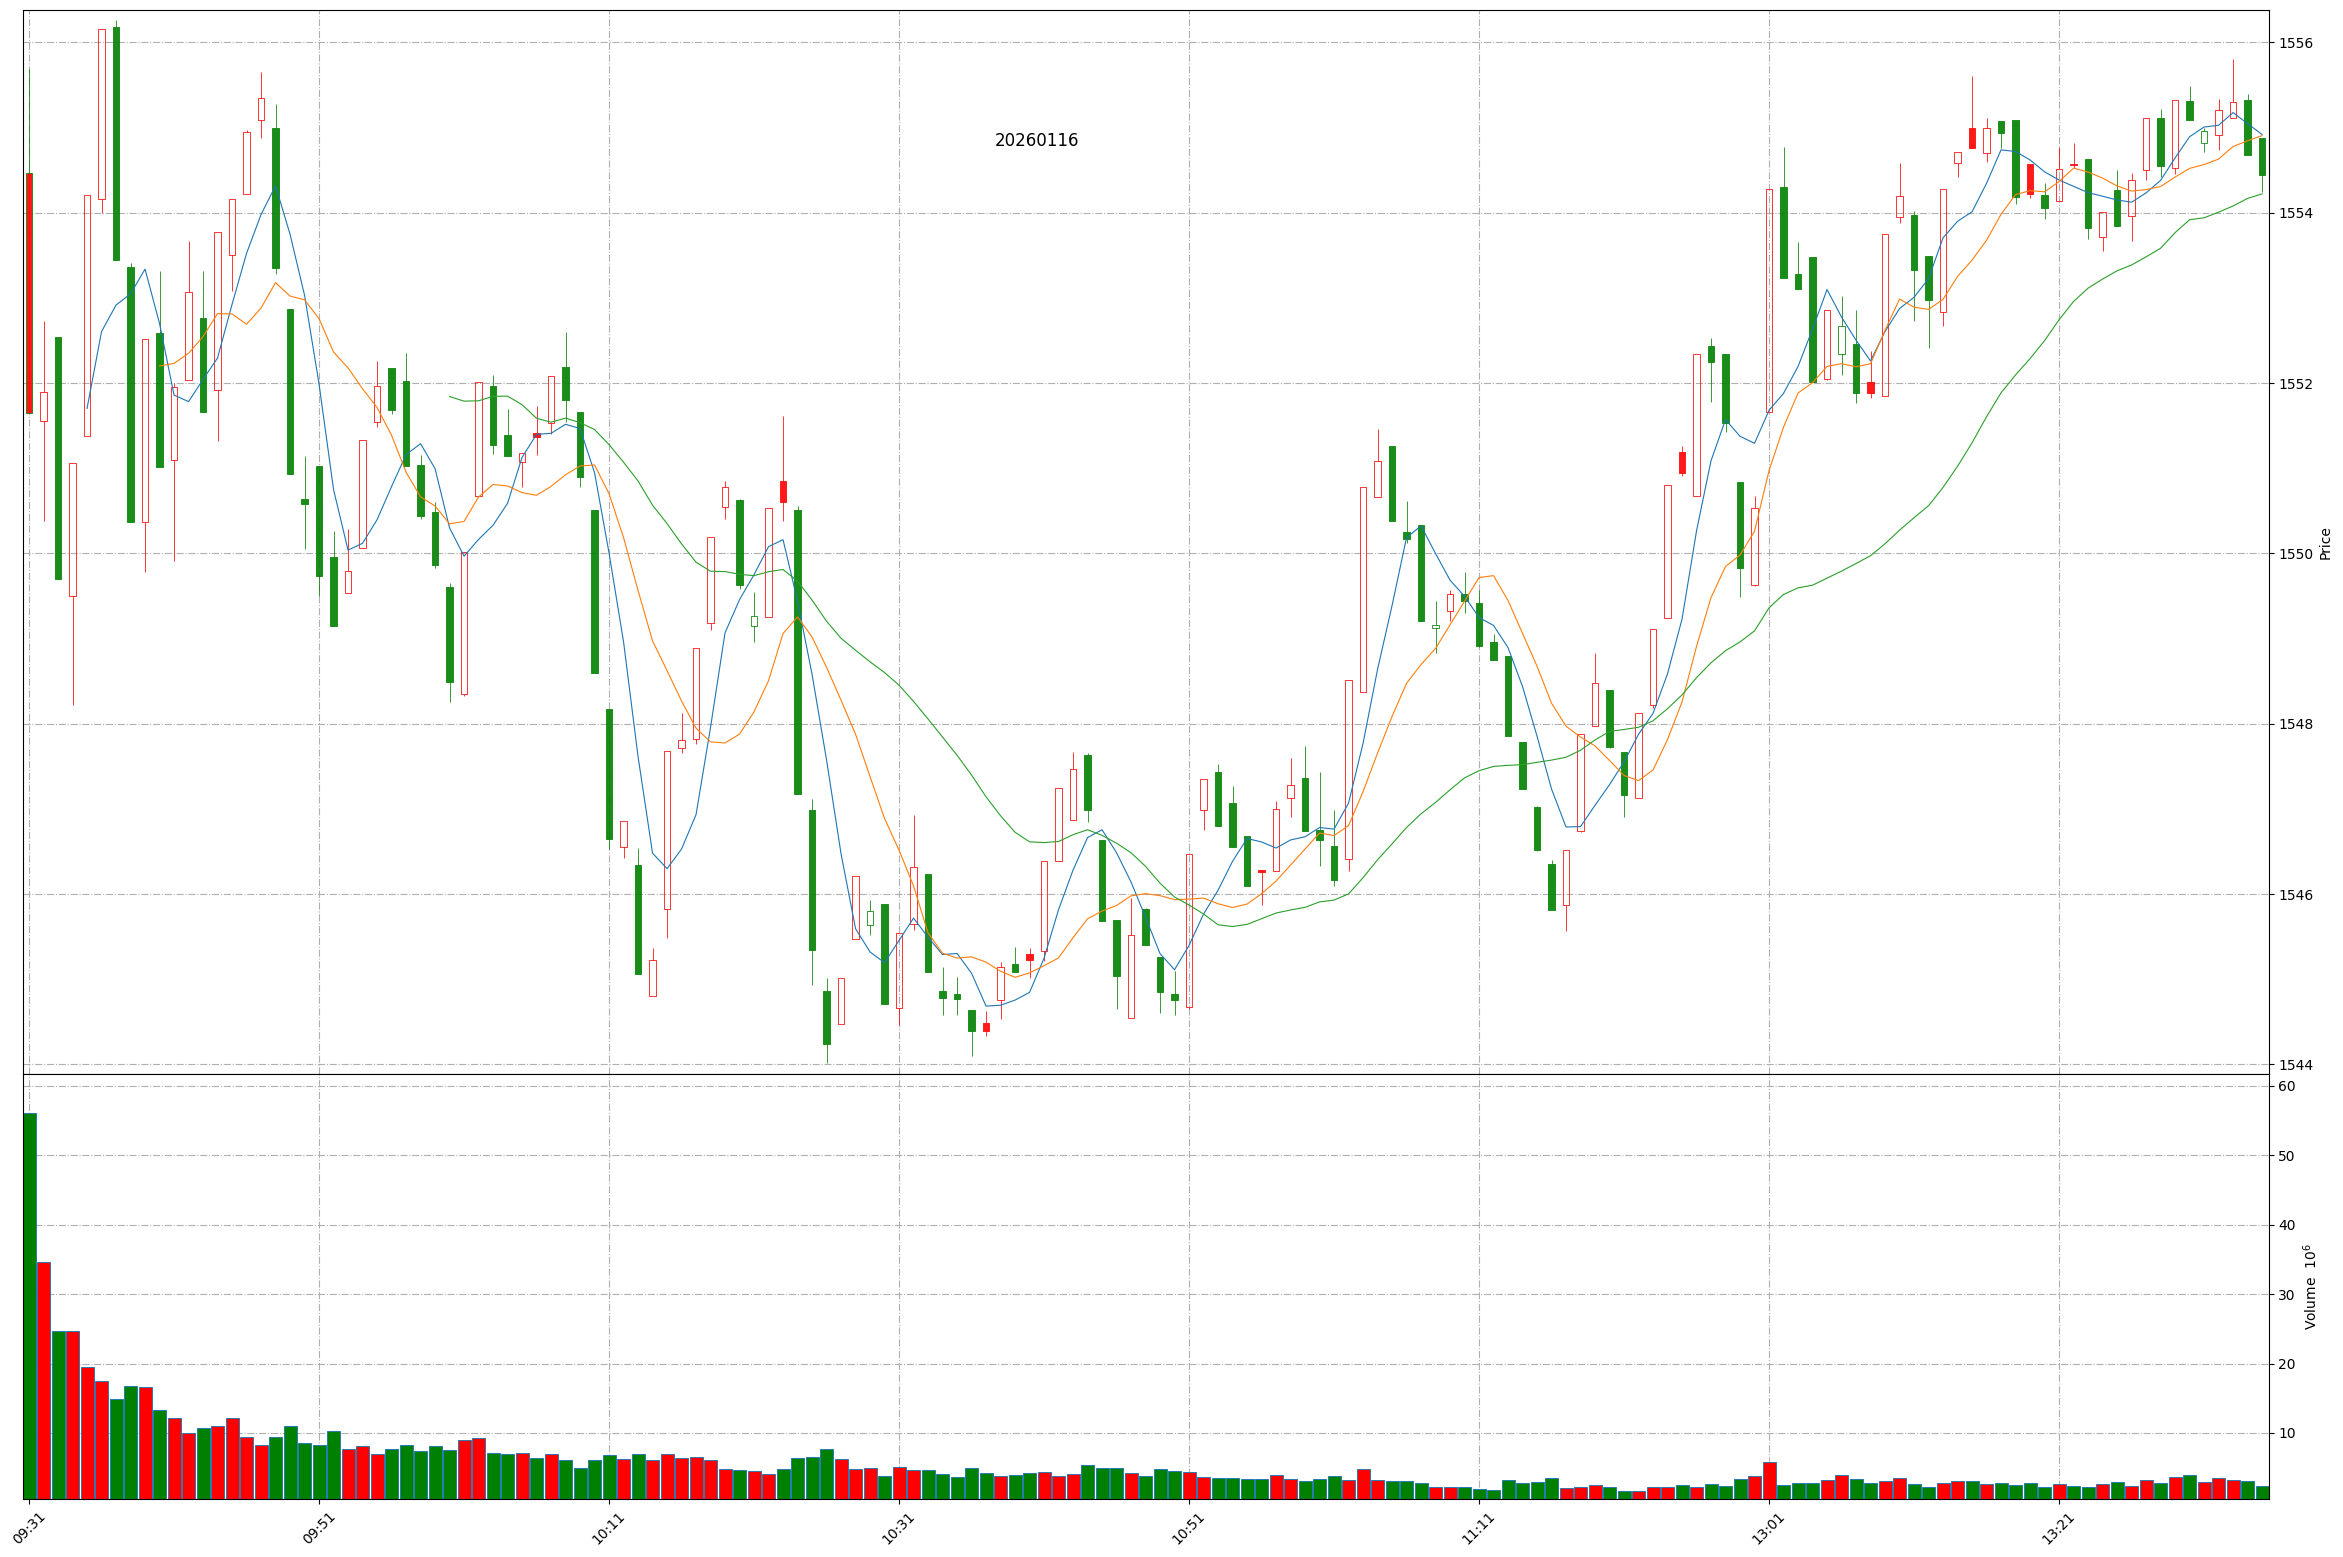
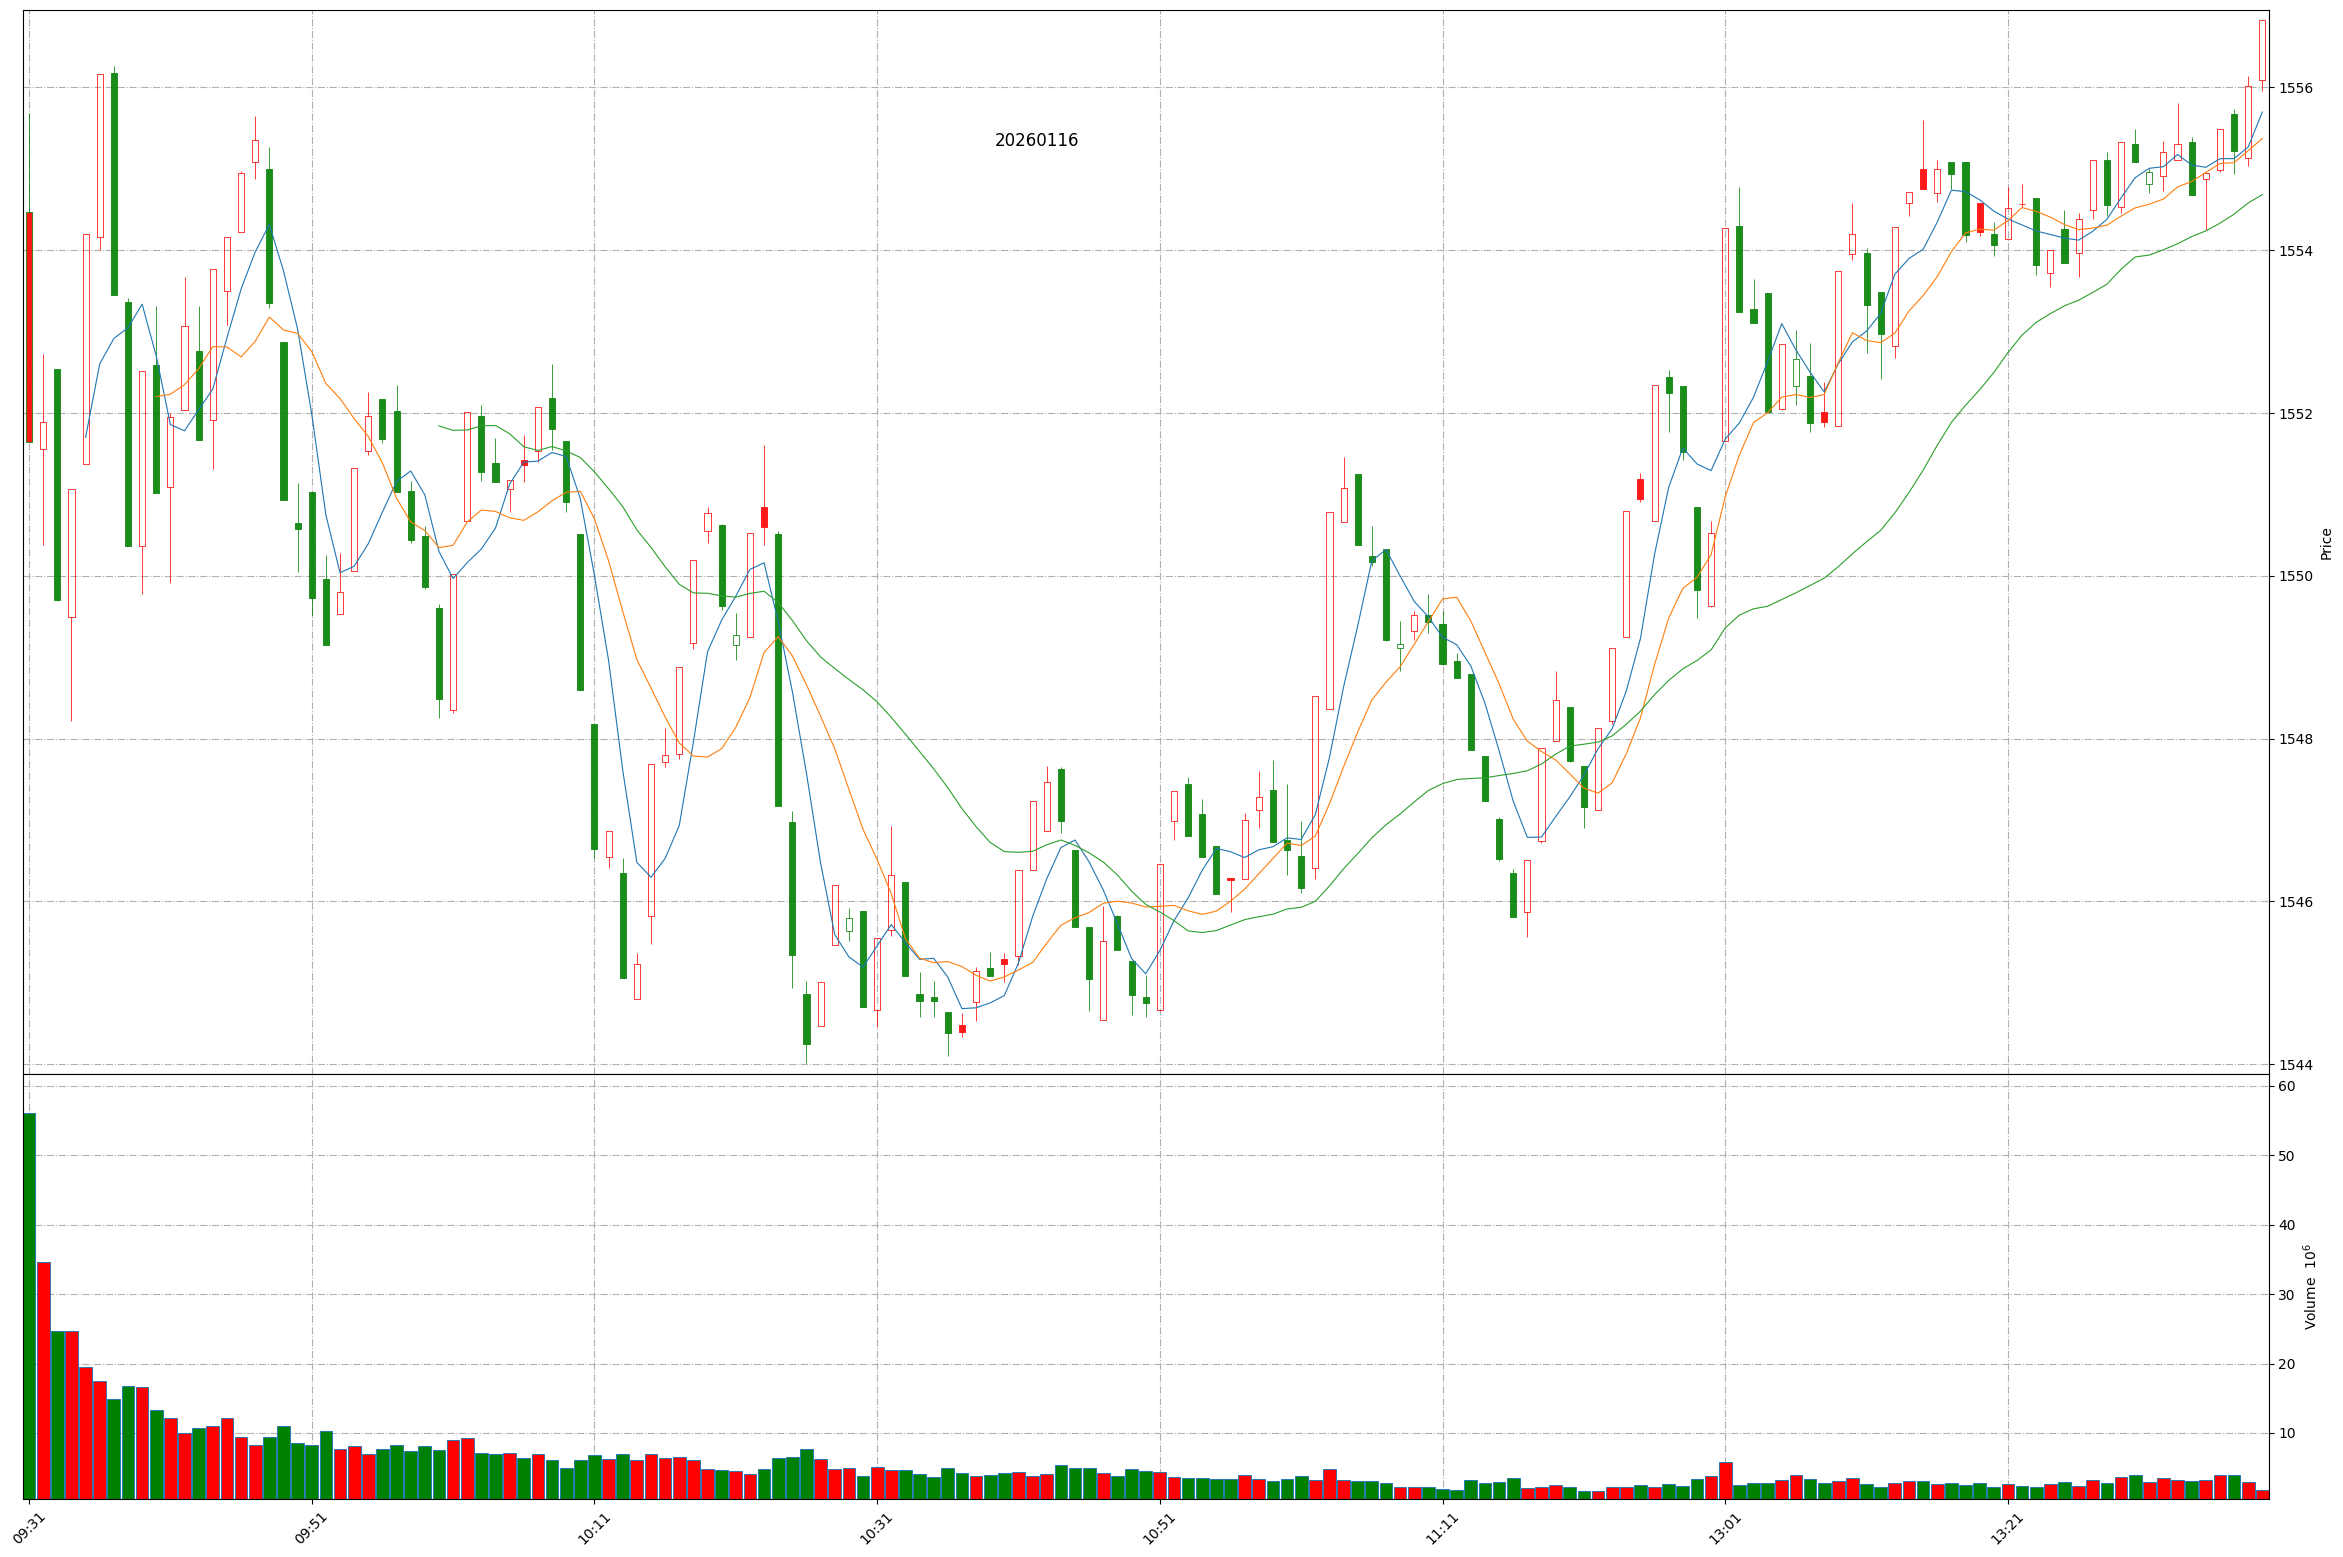
Github action update at 2026-01-16 13:38:52.

diff --git a/README.md b/README.md
@@ -1,11 +1,11 @@
 
 # Daily-A-share-market-quotes 每日 A 股指数（5min 更新）- 20260116
 
-### 上证指数 20260116 13:34
+### 上证指数 20260116 13:38
 ![](./fig/2026/1/20260116-sh000001.png)
 
-### 深证成指 20260116 13:34
+### 深证成指 20260116 13:38
 ![](./fig/2026/1/20260116-sz399001.png)
 
-### 北证50 20260116 13:34
+### 北证50 20260116 13:38
 ![](./fig/2026/1/20260116-bj899050.png)
